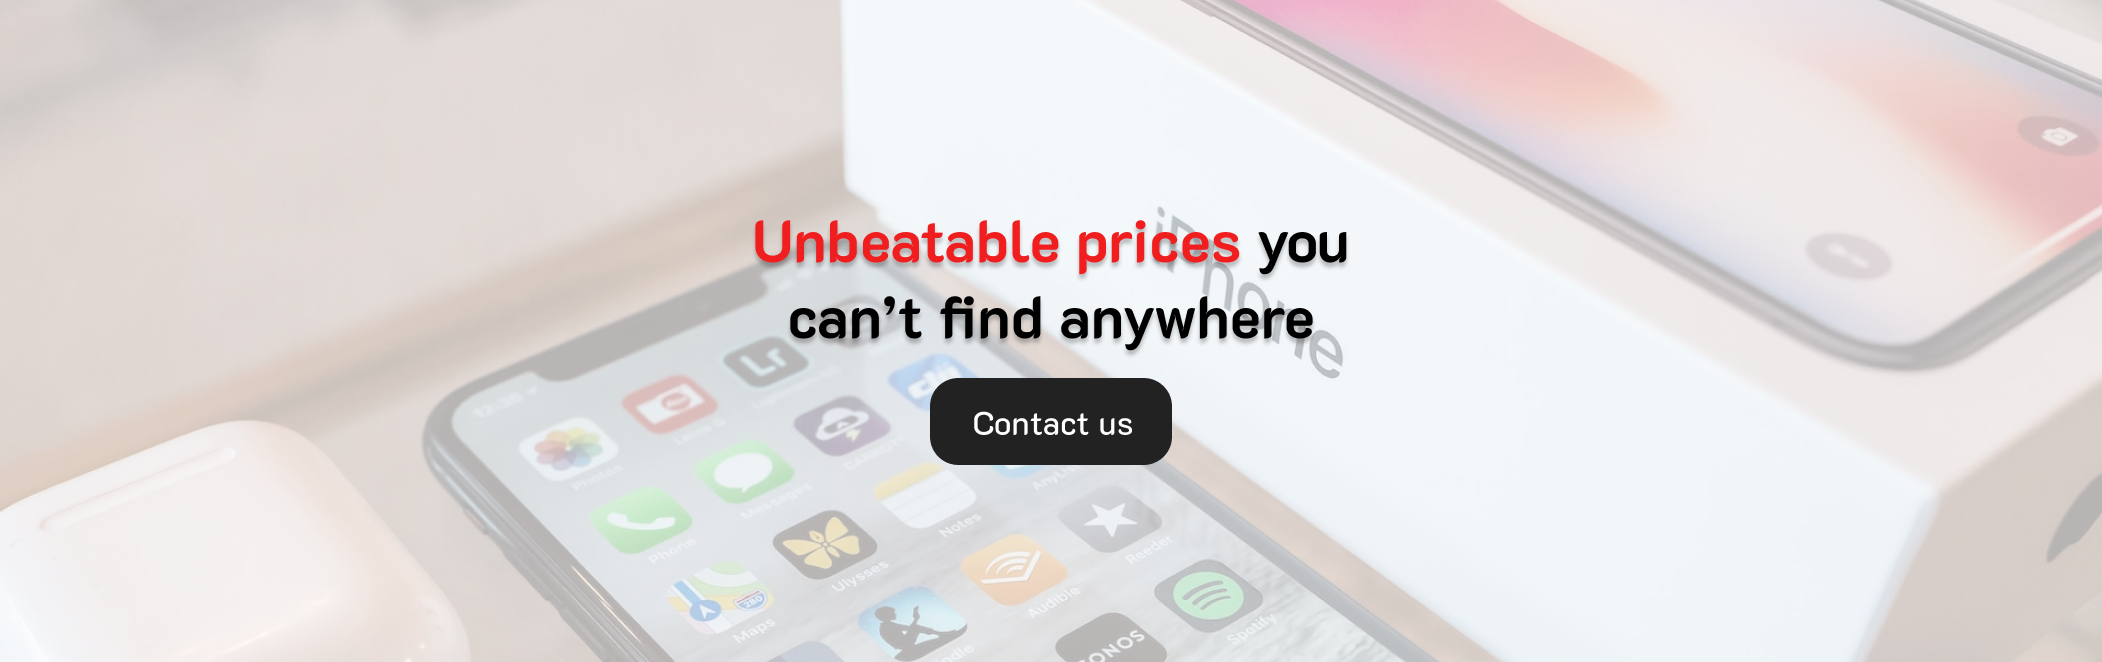
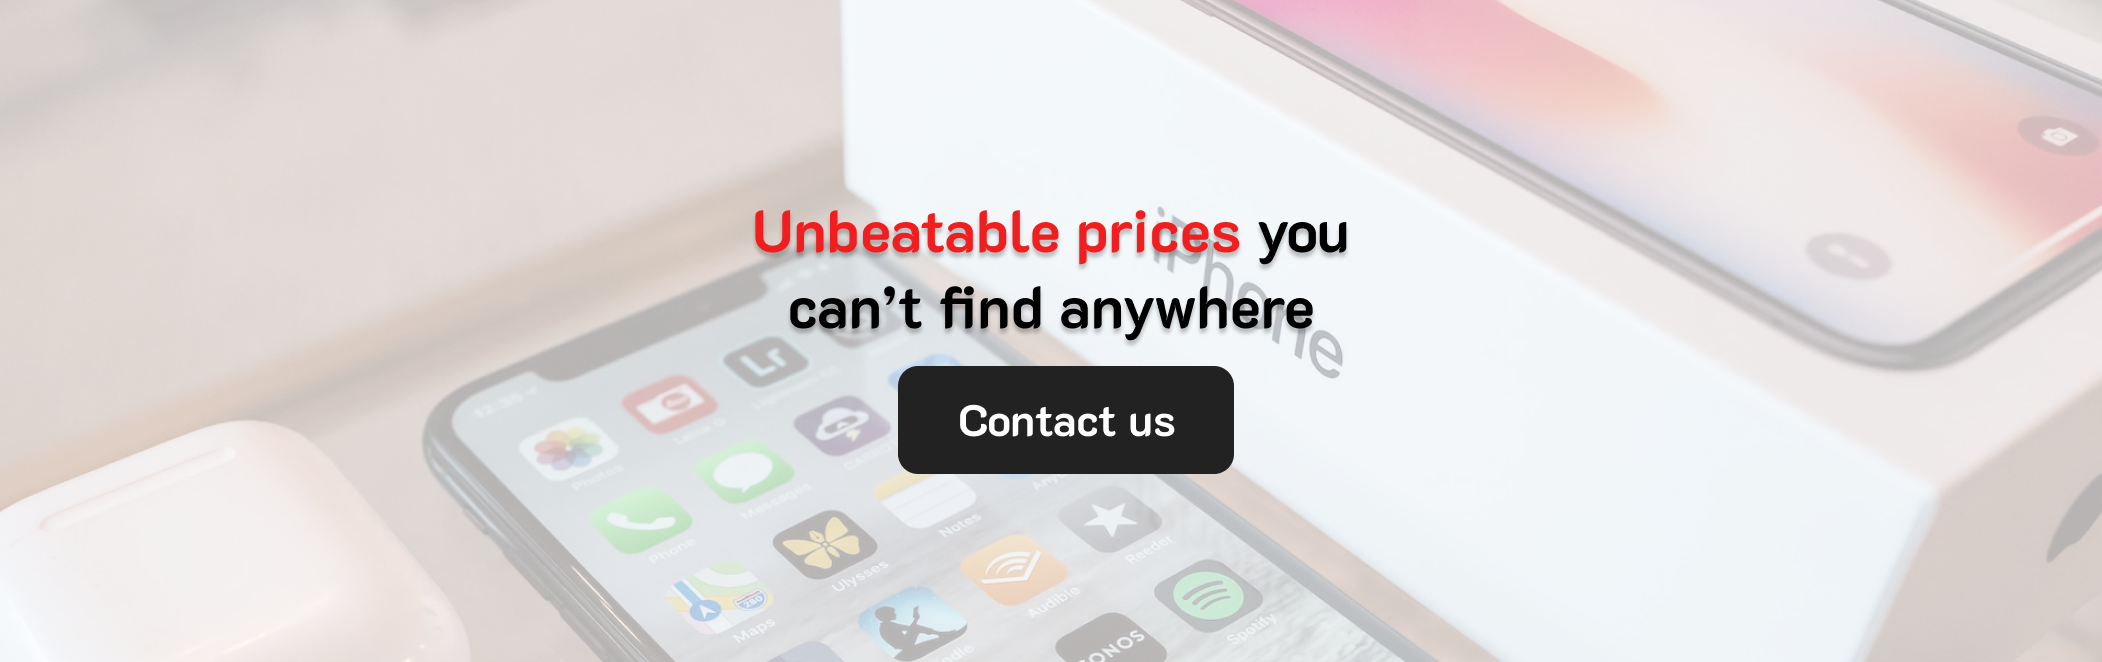
Hero secion styling

Changed region(s): [[0.3402, 0.3021, 0.6494, 0.7251]]

diff --git a/src/screens/Store.jsx b/src/screens/Store.jsx
@@ -3,7 +3,6 @@ import StoreComponent from "../components/StoreComponent";
 import CartComponent from "../components/CartComponent";
 import Modal from "../components/Modal";
 import PaymentUserDetailsForm from "../components/PaymentUserDetailsForm";
-import ReactPlayer from "react-player";
 import myGlobalContext from "../context";
 
 const Store = () => {
@@ -23,7 +22,7 @@ const Store = () => {
 
     const interval = setInterval(() => {
       setCurrentSlide((prevSlide) => (prevSlide + 1) % totalSlides);
-    }, 5000);
+    }, 4000);
 
     return () => clearInterval(interval);
   }, []);
@@ -40,24 +39,24 @@ const Store = () => {
     backgroundRepeat: "no-repeat",
   }}
 >
-  <div
+  {/* <div
     className="absolute inset-0 bg-black opacity-50"
     style={{ backdropFilter: "blur(8px)" }}
   ></div>
   <div className="flex flex-col px-5 justify-center items-center relative z-10">
     <h1 className="text-3xl text-center font-bold text-white">
-      <span className="text-red-600">Unbeatable Prices</span> You Can't
-      Find Anywhere
+      <span className="text-red-600 font-exo-2">Unbeatable </span> prices you can't
+      find anywhere
     </h1>
     <button className="bg-black w-[150px] text-white rounded-lg py-1 mt-5 font-bold hover:bg-red-600 duration-500">
       Contact Us
     </button>
-  </div>
+  </div> */}
 </div>
 
 
       <div
-        className="hidden md:flex relative h-[450px] bg-cover mt-[100px] justify-center items-center"
+        className="hidden md:flex relative h-[400px] bg-cover mt-[100px] justify-center items-center"
         style={{
           backgroundImage: `url('${
             currentSlide === 0 ? "./myImages/pc.jpg" : "./myImages/pc3.jpg"
@@ -68,15 +67,15 @@ const Store = () => {
       >
         <div
           className="absolute inset-0 bg-black opacity-50"
-          style={{ backdropFilter: "blur(2px)" }}
+          style={{ backdropFilter: "blur(8px)" }}
         ></div>
         <div className="flex flex-col px-5 justify-center items-center relative z-10">
-          <h1 className="text-5xl text-center font-bold flex flex-col gap-5 text-white">
-            <p className="text-red-600">Unbeatable Prices</p> You Can't Find
-            Anywhere
+          <h1 style={{ fontFamily: 'Ubuntu' }} className="text-5xl text-center font-bold flex flex-col gap-5 text-white">
+            <p><span className="text-red-800">Unbeatable</span> prices</p>you can't find
+            anywhere
           </h1>
-          <button className="bg-black w-[200px] text-white rounded-lg py-2 mt-10 font-bold text-[20px] hover:bg-red-600 duration-500">
-            Contact Us
+          <button className="bg-black w-[160px] text-white rounded-lg py-2 mt-10 font-bold text-[20px] hover:bg-red-800 duration-500">
+           <a href="mailto:mperfectcomputers@gmail.com">Contact Us</a>
           </button>
         </div>
       </div>

diff --git a/src/components/Header.jsx b/src/components/Header.jsx
@@ -58,13 +58,13 @@ const Header = () => {
 
           <div className="py-4 px-4 md:px-10 md:py-4 bg-[#222222] lg:flex lg:items-center lg:justify-between  ">
             <div className="flex lg:gap-10 lg:items-center w-full lg:w-[70%] justify-between">
-              <div className="lg:flex lg:w-full lg:items-center lg:gap-4 lg:text-[24px] lg:font-bold">
+              <div className="lg:flex lg:w-full lg:items-center lg:gap-2 lg:text-[24px] lg:font-bold">
                 <img
                   src="/myImages/Mask group (2).png"
                   alt="Logo"
                   className="h-10 w-10 lg:h-12 lg:w-12"
                 />
-                <p className="text-white hidden lg:flex">Perfect Computers</p>
+                <p style={{ fontFamily: 'Nova Square' }} className="text-white hidden lg:flex">Perfect Computers</p>
               </div>
 
               {/* mobile */}

diff --git a/public/index.html b/public/index.html
@@ -9,6 +9,9 @@
       name="description"
       content="We are your one-stop-shop for the best computers in Nigeria! Located at the heart of Lagos, Perfect Computers is dedicated to help you with high-quality, low-cost, and durable computers."
     />
+    <link rel="preconnect" href="https://fonts.googleapis.com">
+    <link rel="preconnect" href="https://fonts.gstatic.com" crossorigin>
+    <link href="https://fonts.googleapis.com/css2?family=Ubuntu:wght@700&family=Nova+Square&display=swap" rel="stylesheet">
     <link rel="apple-touch-icon" href="%PUBLIC_URL%/logo192.png" />
     <!--
       manifest.json provides metadata used when your web app is installed on a

diff --git a/src/components/StoreComponent.jsx b/src/components/StoreComponent.jsx
@@ -52,7 +52,7 @@ const StoreComponent = () => {
 
   return (
     <>
-      <p className="font-bold text-center py-4 text-[1.4rem] md:text-[1.5rem] lg:text-[2rem] leading-8">
+      <p style={{ fontFamily: 'Ubuntu' }} className="font-bold text-center py-4 text-[1.4rem] md:text-[1.5rem] md:mt-3 lg:text-[2rem] leading-8">
         Our Top-Selling Products
       </p>
       <div className="grid gap-2 p-2 grid-cols-1 sm:grid-cols-2 sm:gap-2 md:grid-cols-3 md:p-4 lg:grid-cols-3 lg:gap-4 xl:grid-cols-4">

diff --git a/src/components/PaymentUserDetailsForm.jsx b/src/components/PaymentUserDetailsForm.jsx
@@ -51,7 +51,7 @@ function PaymentUserDetailsForm() {
   };
 
   return (
-    <div className="">
+    <div className="bg-black">
       <ToastContainer />
       <div className=" bg-white rounded-md drop-shadow-xl p-2  mt-[200px] md:mt-[240px] lg:mt-[130px]">
         <div className="  w-[95vw] h-[60vh]  relative overflow-y-scroll p-4 sm:w-[60vw] md:w-[70vw] md:p-16 md:h-[80vh] ">
